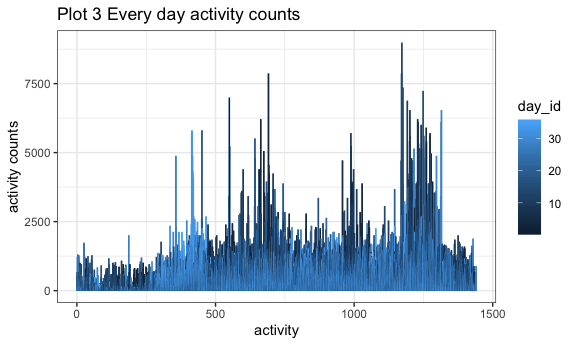
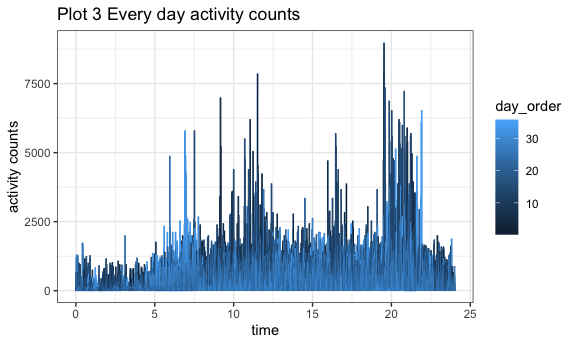
Add some changes.

diff --git a/p8105_hw3_xw2676.md b/p8105_hw3_xw2676.md
@@ -28,7 +28,8 @@ order.
 ``` r
 aisle_data_ordered = group_by(instacart,aisle,aisle_id) %>% ## split data into datasets of different aisles
   summarise(n = n()) %>% ## generate a dataset which comprises of every aisle and number of items ordered from it.
-  arrange(-n)  ##make this dataset arranged in order from big to small.
+  arrange(-n)
+  ##make this dataset arranged in order from big to small.
 ```
 
 So there are 134 aisles, and items are ordered mostly from “fresh
@@ -39,7 +40,7 @@ day.
 #### 2\)
 
 ``` r
-filter(aisle_data_ordered, n>10000) %>%  ## filter the aisles from which the number of items ordered is larger than 10000.
+items_aisle = filter(aisle_data_ordered, n>10000) %>%  ## filter the aisles from which the number of items ordered is larger than 10000.
 ggplot(aes(x = aisle, y = n)) +     ## make a geom_point plot.
   geom_point() +
   labs(
@@ -49,6 +50,7 @@ ggplot(aes(x = aisle, y = n)) +     ## make a geom_point plot.
     caption = "Data from the instacart package"
   )+
   theme(axis.text.x = element_text(angle = 90,hjust = 1))
+items_aisle
 ```
 
 <img src="p8105_hw3_xw2676_files/figure-gfm/unnamed-chunk-3-1.png" width="90%" />
@@ -587,7 +589,10 @@ labs(
        y    = "average data value",
        title = "Plot 1  Average data value over time within a state "
        )
+Excellent_response
 ```
+
+<img src="p8105_hw3_xw2676_files/figure-gfm/unnamed-chunk-8-1.png" width="90%" />
 
 #### 3\)
 
@@ -598,15 +603,19 @@ Responses_NY_2006_2010 = filter(Overall_Health, (year == "2006"| year =="2010") 
   summarise(
     mean_data_value_of_response = mean(data_value)
   ) %>% 
-  ggplot(aes(x = mean_data_value_of_response, fill = response)) +
+  ggplot(aes(x = mean_data_value_of_response, color = response)) +
   geom_density(alpha = .5) + 
   facet_grid(~year) + 
   viridis::scale_fill_viridis(discrete = TRUE)+
 labs(
-       x    = "mean of data value of response",
-       title = "Plot 2  Average response data value in 2006 and 2010 "
-       )
+       x    = "mean data value",
+       title = "Plot 2  Mean data value of responses in 2006 and 2010 in NY state "
+       )+
+theme(axis.text.x = element_text(angle = 90, hjust = 1))
+Responses_NY_2006_2010
 ```
+
+<img src="p8105_hw3_xw2676_files/figure-gfm/unnamed-chunk-9-1.png" width="90%" />
 
 ## Problem 3
 
@@ -629,8 +638,22 @@ accel_data = read_csv("./accel_data.csv") %>%
                           "Saturday")),
     activity = as.numeric(activity),
     weekday_weekend = ifelse(day %in% c("Saturday","Sunday"),"weekend","weekday"),
-    weekday_weekend = as.factor(weekday_weekend)
-  ) 
+    weekday_weekend = as.factor(weekday_weekend),
+    day_num = factor(day,levels = c("Sunday","Monday", "Tuesday",
+                          "Wednesday", 
+                          "Thursday", "Friday", 
+                          "Saturday"),labels = c(1:7)) )%>% 
+    mutate(
+      day_order = week-1,
+      day_order = day_order * 7,
+      day_order = day_order + as.numeric(day_num),
+      day_order = as.numeric(day_order)
+    ) %>% 
+  mutate(
+    time = activity/60
+  ) %>% 
+  select(-day_num) %>% 
+  arrange(day_order) 
 ```
 
     ## Parsed with column specification:
@@ -641,50 +664,73 @@ accel_data = read_csv("./accel_data.csv") %>%
 
     ## See spec(...) for full column specifications.
 
-There are 50400 observations and 6 variables in accel\_data dataset. The
+There are 50400 observations and 8 variables in accel\_data dataset. The
 key variables are activity\_counts.
 
 #### 2\)
 
 ``` r
-total_activity = group_by(accel_data, day_id,day) %>% 
+total_activity = group_by(accel_data, day_order, day,week) %>% 
   summarise(
     total_activity = sum(activity_counts)
-  )  
-  
-total_activity  
+  ) 
+total_activity 
 ```
 
-    ## # A tibble: 35 x 3
-    ## # Groups:   day_id [35]
-    ##    day_id day       total_activity
-    ##     <dbl> <fct>              <dbl>
-    ##  1      1 Friday           480543.
-    ##  2      2 Monday            78828.
-    ##  3      3 Saturday         376254 
-    ##  4      4 Sunday           631105 
-    ##  5      5 Thursday         355924.
-    ##  6      6 Tuesday          307094.
-    ##  7      7 Wednesday        340115.
-    ##  8      8 Friday           568839 
-    ##  9      9 Monday           295431 
-    ## 10     10 Saturday         607175 
+    ## # A tibble: 35 x 4
+    ## # Groups:   day_order, day [35]
+    ##    day_order day        week total_activity
+    ##        <dbl> <fct>     <dbl>          <dbl>
+    ##  1         1 Sunday        1        631105 
+    ##  2         2 Monday        1         78828.
+    ##  3         3 Tuesday       1        307094.
+    ##  4         4 Wednesday     1        340115.
+    ##  5         5 Thursday      1        355924.
+    ##  6         6 Friday        1        480543.
+    ##  7         7 Saturday      1        376254 
+    ##  8         8 Sunday        2        422018 
+    ##  9         9 Monday        2        295431 
+    ## 10        10 Tuesday       2        423245 
     ## # … with 25 more rows
 
-\#\#\#\#\#\#\#\#\#\#\#\#\#\#\#\#\#trend????????
+``` r
+## generate a plot about the total activity of every day in every week to see the trend.
+total_activity_plot = ggplot(total_activity, aes(x = day_order, y = total_activity)) +
+  geom_line(alpha = .5) +
+labs(
+       x    = "day order",
+       title = "Plot 3  Total activity of each day "
+       )  + 
+scale_x_continuous(
+    breaks = c(1,8, 15, 22,29), 
+    labels = c("1", "8", "15", "22", "29"),
+    limits = c(1, 35)) + 
+theme(axis.text.x = element_text(angle = 90, hjust = 1))
+total_activity_plot
+```
+
+<img src="p8105_hw3_xw2676_files/figure-gfm/unnamed-chunk-11-1.png" width="90%" />
+
+From the plot above, we can see that in the first two weeks, the total
+activity is increasing in the mass. And in the next two weeks, the total
+activity is decreasing.
 
 #### 3\)
 
 ``` r
 accel_data %>% 
-  group_by(day_id) %>% 
-  ggplot(aes(x = activity, y = activity_counts, color = day_id)) +
-  geom_line()+
+  group_by(day_order) %>% 
+  ggplot(aes(x = time, y = activity_counts, color = day_order)) +
+  geom_line() +
 labs(
-       x = "activity",
+       x = "time",
        y = "activity counts",
        title = "Plot 3 Every day activity counts"
        )
 ```
 
 <img src="p8105_hw3_xw2676_files/figure-gfm/unnamed-chunk-12-1.png" width="90%" />
+
+From the plot above, we can see that the number of activity is large
+during 6:00am to 22:00pm, especially large at around 10:00am and
+21:00pm, which indicates that he had more activities at these times.
